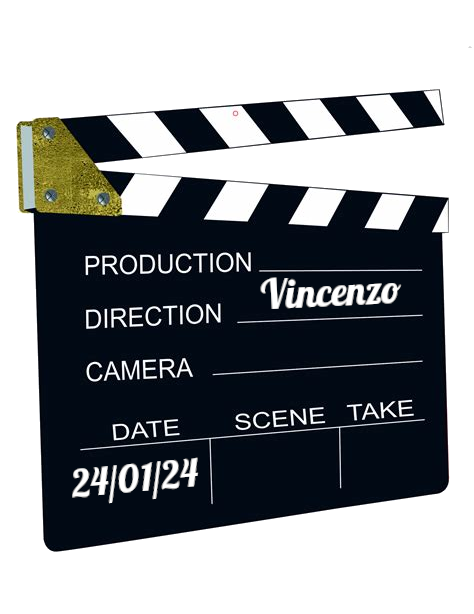
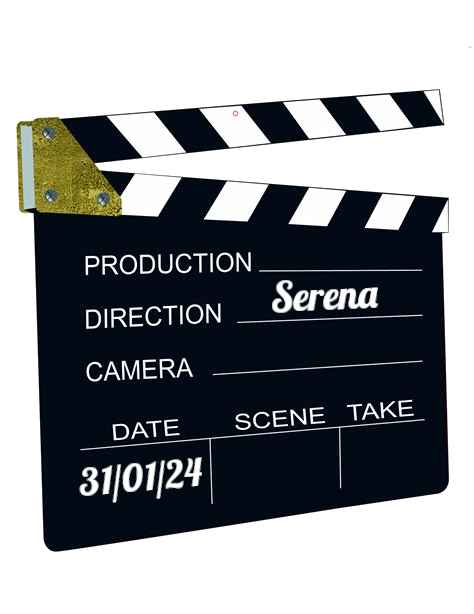
Boiling point

Changed region(s): [[0.1477, 0.7427, 0.443, 0.8355], [0.5316, 0.4332, 0.8565, 0.5261]]

diff --git a/index.html b/index.html
@@ -40,16 +40,24 @@
 <br /><br /><hr width="90%"><hr width="90%"><br /><br />
 
 
-<h1>Mercoled&igrave; 24 gennaio 2024</h1>
+<h1>Mercoled&igrave; 31 gennaio 2024</h1>
 <h2>Alle 20:30 in Via Nizza, 72</h2>
 
 <img src="img/ciak.png" class="locandina"/>
 
-<h2>Selezionatore: Vincenzo<i></i></h2>
+<h2>Selezionatrice: Serena<i></i></h2>
 
 
 <br /><br /><hr width="90%"><hr width="90%"><br /><br />
 
+<h1>Mercoled&igrave; 24 gennaio 2024</h1>
+<p class="mtitle">
+<a href="https://www.imdb.com/title/tt11127680" target="_blank">Boiling Point</a>
+</p>
+<img src="https://image.tmdb.org/t/p/w500/cpL4lZTl5CaLY6bt9c5UXqUZxxL.jpg" class="locandina"/>
+<h2>Selezionatore: <i>Vincenzo</i></h2>
+
+<br /><br /><hr width="90%"><br /><br />
 
 <h1>Mercoled&igrave; 17 gennaio 2024</h1>
 <p class="mtitle">

diff --git a/movieslist.html b/movieslist.html
@@ -29,6 +29,17 @@ Rassegnamoci, Cineforum a Programma Variabile - Elenco Film
   </thead>
   <tbody>
     <tr>
+      <td>24-Gen-2024</td>
+      <td>Boiling Point - Il disastro è servito</td>
+      <td>Vincenzo</td>
+      <td>-</td>
+      <td>2021</td>
+      <td>Philip Barantini</td>
+      <td>92</td>
+      <td>GB</td>
+      <td><a href="https://www.imdb.com/title/tt11127680" target="_blank">https://www.imdb.com/title/tt11127680</a></td>
+    </tr>
+    <tr>
       <td>17-Gen-2024</td>
       <td>Hotel Rwanda</td>
       <td>Adriana</td>
